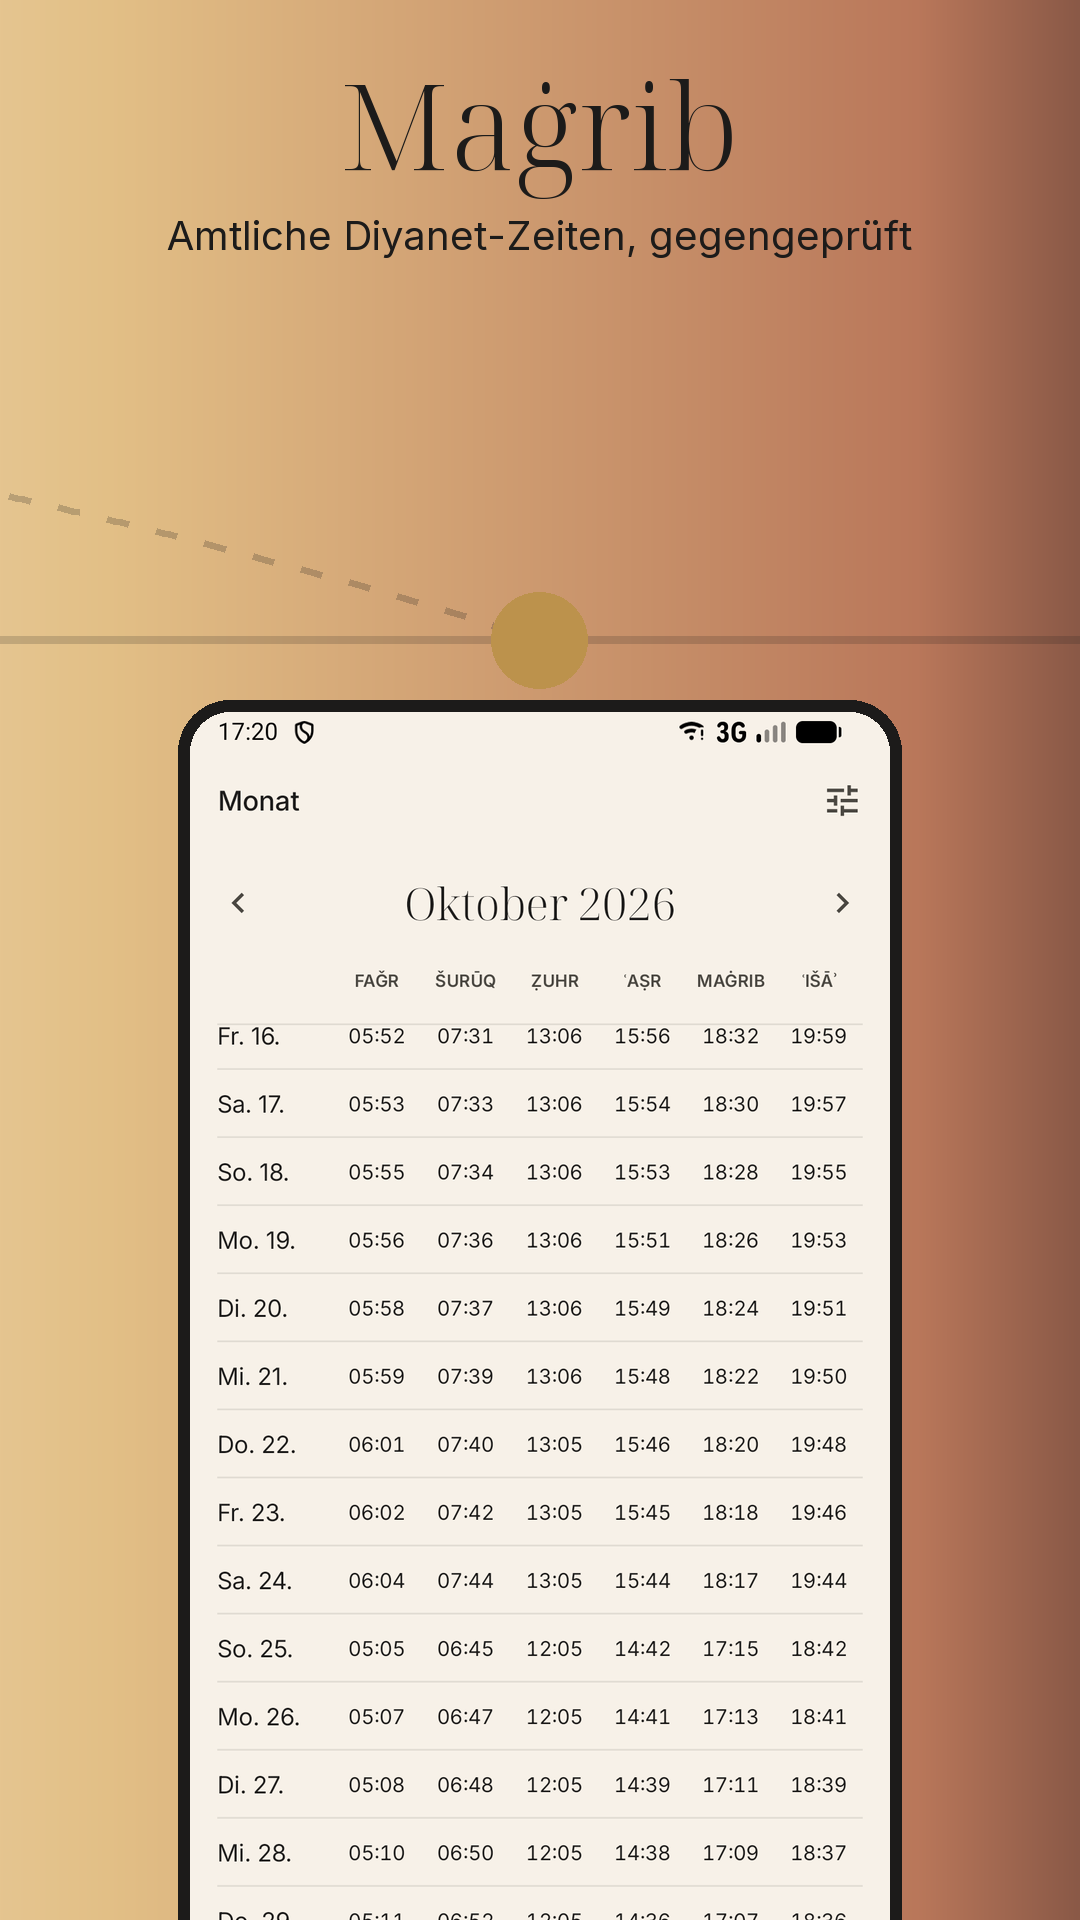
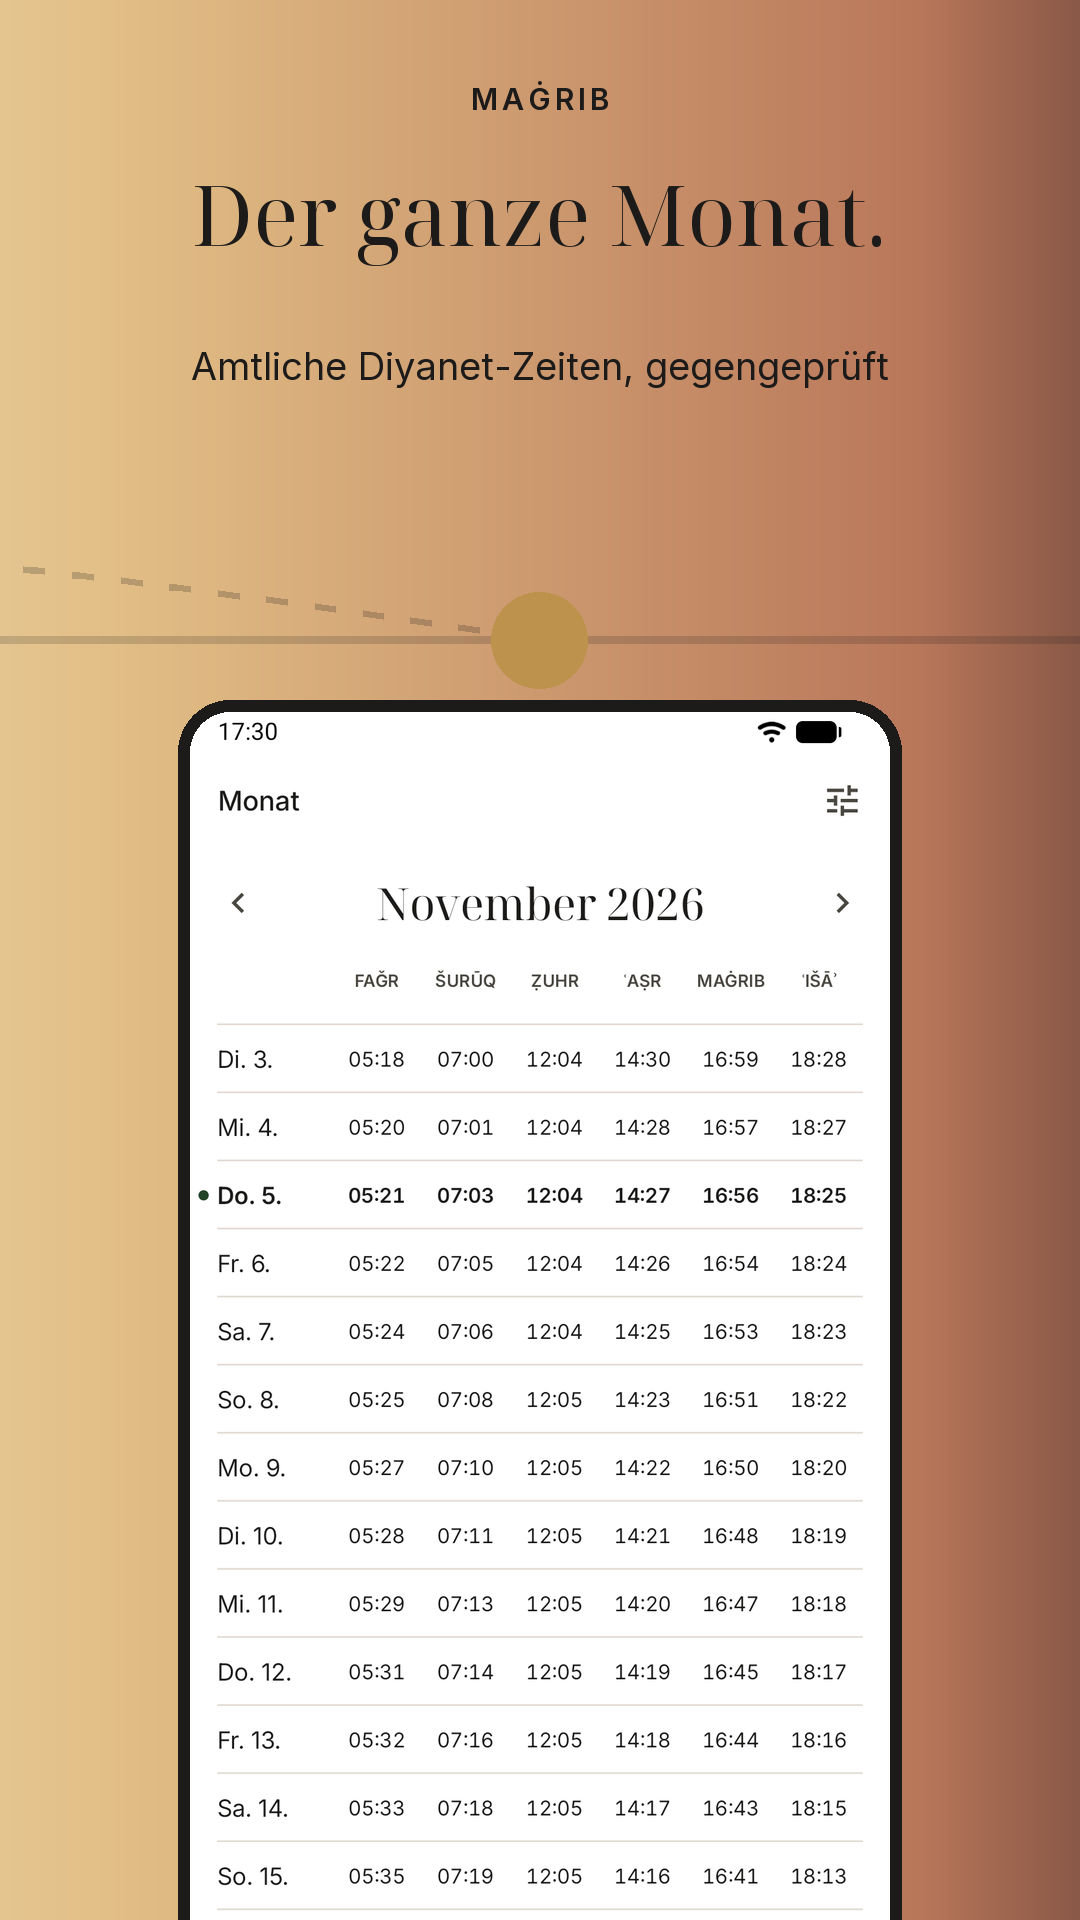
docs(store): neue Screenshot-Reihe im neuen Auftritt
Nach der Rückmeldung des Testers: groß eine Aussage zur Funktion, der
Gebetsname klein darüber, Serife Regular statt Light. Neue Aufnahmen mit
amtlichen Nürnberger Zeiten vom 05.11.2026 im aktuellen Design (Weiß,
neues „Heute“, „Verstehen“ mit Reitern). Sonnenbahn flacher und Sterne
unter der Textzone; Uhr-Einsatz vorerst entfernt (Aufnahme veraltet).

diff --git a/playstore/make_screenshots.py b/playstore/make_screenshots.py
@@ -47,21 +47,25 @@ ZIEL = REPO / "fastlane" / "metadata" / "android" / "de-DE" / "images"
 MAX_VERHAELTNIS = 2.0
 BREITE, HOEHE = 1080, 1920
 
-# (Rohdatei, Überschrift, Zeile). Reihenfolge = Tageslauf = Panorama von links.
+# (Rohdatei, Gebet klein darüber, Aussage groß, Zeile). Reihenfolge = Tageslauf =
+# Panorama von links. Seit 05.11.2026 (Rückmeldung des Testers) trägt die Aussage
+# zur Funktion die Überschrift, der Gebetsname steht klein darüber.
 SHOTS = [
-    ("01_fajr.png", "Faǧr", "Welches Gebet gerade gilt und wie lange noch"),
-    ("02_zuhr.png", "Ẓuhr", "Warum die Zeit dann beginnt"),
-    ("03_asr.png", "ʿAṣr", "Auf dem Startbildschirm und am Handgelenk"),
-    ("04_maghrib.png", "Maġrib", "Amtliche Diyanet-Zeiten, gegengeprüft"),
-    ("05_isha.png", "ʿIšāʾ", "Keine Werbung, kein Konto, akkusparend"),
+    ("01_fajr.png", "Faǧr", "Der Tag beginnt\nmit dem ersten Licht.", "Welches Gebet gilt und wie lange noch"),
+    ("02_zuhr.png", "Ẓuhr", "Jede Zeit erklärt.", "Beginn, Ende, Rakʿa und Quellen"),
+    ("03_asr.png", "ʿAṣr", "Immer im Blick.", "Widgets, Statusleiste und Uhr"),
+    ("04_maghrib.png", "Maġrib", "Der ganze Monat.", "Amtliche Diyanet-Zeiten, gegengeprüft"),
+    ("05_isha.png", "ʿIšāʾ", "Ruhig, auch\nin der Nacht.", "Reines Schwarz. Keine Werbung, kein Konto."),
 ]
-UHR_EINSATZ = "03_asr_uhr.png"
+# Kein Uhr-Einsatz mehr: die vorhandene Aufnahme stammt vom 30.10. und zeigte
+# andere Zeiten als das Telefon daneben. Wieder einsetzen mit neuer Aufnahme.
+UHR_EINSATZ = None
 NACHT = 4  # Index des letzten, dunklen Bildes
 
 # Zeile in Tinte statt Stein (#4A4741): vor Ocker und Ton reichte Stein nicht
 # fuer 4,5:1 (Bild 4, gemessen 2,4:1 am Zeilenende).
-HELL = {"titel": INK, "zeile": INK, "rahmen": (0x1C, 0x1B, 0x1A)}
-DUNKEL = {"titel": (0xF7, 0xF1, 0xE8), "zeile": (0xD8, 0xD2, 0xC8), "rahmen": (0x2A, 0x2A, 0x2D)}
+HELL = {"titel": INK, "zeile": INK, "kopf": INK, "rahmen": (0x1C, 0x1B, 0x1A)}
+DUNKEL = {"titel": (0xF7, 0xF1, 0xE8), "zeile": (0xD8, 0xD2, 0xC8), "kopf": (0xD8, 0xD2, 0xC8), "rahmen": (0x2A, 0x2A, 0x2D)}
 
 # Telefon schmal und tief genug, dass die Sonnenbahn im Streifen darueber
 # sichtbar bleibt; die oberen gut drei Viertel des Bildschirms bleiben zu sehen.
@@ -69,14 +73,30 @@ TELEFON_BREITE = 700
 RAHMEN = 12
 TELEFON_OBEN = 700
 ECKE = 40
-# Horizont und flache Sonnenbahn zwischen Zeile (y = 250) und Telefon (y = 700).
-TITEL_Y, ZEILE_Y = 170, 250
+# Kopf (Gebet), Aussage (bis zwei Zeilen) und Zeile über dem Horizont; die
+# flache Sonnenbahn läuft darunter bis zum Telefon (y = 700).
+KOPF_Y, TITEL_Y, ZEILE_Y = 110, 200, 380
+TITEL_PX, TITEL_ABSTAND, ZEILE_PX, KOPF_PX = 84, 92, 38, 30
 HORIZONT = 640 / HOEHE
-BAHN = 0.357
+# Flacher als bis 05.11.2026 (0,357): die Textzone reicht jetzt tiefer, die Sonne
+# im Scheitel soll darunter bleiben statt hinter der Zeile zu stehen.
+BAHN = 0.18
 
 
 STRICHE = (chr(0x2014), chr(0x2013))
-SCHRIFTDATEI = {"serif": "serif_light.ttf", "sans": "sans_regular.ttf"}
+SCHRIFTDATEI = {"serif": "serif_regular.ttf", "sans": "sans_regular.ttf", "kopf": "sans_semibold.ttf"}
+
+
+def zeilen(index: int) -> list:
+    """(Text, Schrift, Grundlinie, Farbschlüssel) aller Textzeilen eines Bildes."""
+    _, kopf, titel, zeile = SHOTS[index]
+    teile = titel.split("\n")
+    # Einzeilige Aussage etwas tiefer, damit der Abstand zur Zeile gleich wirkt.
+    oben = TITEL_Y + (TITEL_ABSTAND // 2 if len(teile) == 1 else 0)
+    out = [(kopf.upper(), font("kopf", KOPF_PX), KOPF_Y, "kopf")]
+    out += [(t, font("serif", TITEL_PX), oben + i * TITEL_ABSTAND, "titel") for i, t in enumerate(teile)]
+    out.append((zeile, font("sans", ZEILE_PX), ZEILE_Y, "zeile"))
+    return out
 
 
 def fehlende_zeichen(text: str, role: str) -> set:
@@ -107,9 +127,8 @@ def pruefe_kontrast(index: int, panel: Image.Image) -> None:
     """Ueberschrift und Zeile gegen den Himmel dahinter, ueber ihre ganze Breite."""
     farben = DUNKEL if index == NACHT else HELL
     d = ImageDraw.Draw(panel)
-    _, titel, zeile = SHOTS[index]
-    for text, schrift, y, farbe in ((titel, font("serif", 120), TITEL_Y, farben["titel"]),
-                                    (zeile, font("sans", 40), ZEILE_Y, farben["zeile"])):
+    for text, schrift, y, rolle in zeilen(index):
+        farbe = farben[rolle]
         x0, y0, x1, y1 = d.textbbox((BREITE / 2, y), text, font=schrift, anchor="ms")
         for x in range(int(x0), int(x1), 6):
             for yy in (int(y0) + 2, int((y0 + y1) / 2), int(y1) - 2):
@@ -124,11 +143,12 @@ def pruefe_texte() -> None:
     # keiner der beiden Schriften. Ein Bild-Vergleich (getmask) taugt dafuer
     # nicht, weil Pillow fuer fehlende Zeichen ein Ersatzkaestchen malt.
     assert fehlende_zeichen(chr(0x0635), "serif") == {chr(0x0635)}, "Glyphenpruefung erkennt nichts"
-    for _, titel, zeile in SHOTS:
-        for text in (titel, zeile):
+    for _, kopf, titel, zeile in SHOTS:
+        for text in (kopf, titel, zeile):
             assert not any(s in text for s in STRICHE), f"Strich in „{text}“"
-        assert not fehlende_zeichen(titel, "serif"), f"Serife: {fehlende_zeichen(titel, 'serif')}"
+        assert not fehlende_zeichen(titel.replace("\n", " "), "serif"), f"Serife: {fehlende_zeichen(titel, 'serif')}"
         assert not fehlende_zeichen(zeile, "sans"), f"Grotesk: {fehlende_zeichen(zeile, 'sans')}"
+        assert not fehlende_zeichen(kopf.upper(), "kopf"), f"Kopf: {fehlende_zeichen(kopf.upper(), 'kopf')}"
 
 
 
@@ -140,15 +160,22 @@ def _rund(im: Image.Image, radius: int) -> Image.Image:
     return out
 
 
-def compose(raw: Image.Image, panel: Image.Image, title: str, line: str,
+def compose(raw: Image.Image, panel: Image.Image, index: int,
             inset: Image.Image | None = None, dunkel: bool = False) -> Image.Image:
-    """Ein Screenshot 1080 x 1920: Himmel, Überschrift, Zeile, Aufnahme im Rahmen."""
+    """Ein Screenshot 1080 x 1920: Himmel, Gebet, Aussage, Zeile, Aufnahme im Rahmen."""
     farben = DUNKEL if dunkel else HELL
     im = panel.convert("RGBA")
     d = ImageDraw.Draw(im)
-    serif, sans = font("serif", 120), font("sans", 40)
-    d.text((BREITE / 2, TITEL_Y), title, font=serif, fill=farben["titel"], anchor="ms")
-    d.text((BREITE / 2, ZEILE_Y), line, font=sans, fill=farben["zeile"], anchor="ms")
+    for text, schrift, y, rolle in zeilen(index):
+        # Der Gebetsname leicht gesperrt, wie die kleinen Köpfe in der App.
+        if rolle == "kopf":
+            breite = sum(d.textlength(c, font=schrift) for c in text) + 4 * (len(text) - 1)
+            x = BREITE / 2 - breite / 2
+            for c in text:
+                d.text((x, y), c, font=schrift, fill=farben[rolle], anchor="ls")
+                x += d.textlength(c, font=schrift) + 4
+        else:
+            d.text((BREITE / 2, y), text, font=schrift, fill=farben[rolle], anchor="ms")
 
     h = round(raw.size[1] * TELEFON_BREITE / raw.size[0])
     bild = raw.convert("RGB").resize((TELEFON_BREITE, h), Image.LANCZOS)
@@ -174,15 +201,15 @@ def compose(raw: Image.Image, panel: Image.Image, title: str, line: str,
 
 def telefon() -> list:
     quelle = ROH / "phoneScreenshots"
-    fehlend = [n for n, _, _ in SHOTS if not (quelle / n).is_file()]
+    fehlend = [n for n, _, _, _ in SHOTS if not (quelle / n).is_file()]
     assert not fehlend, f"Roh-Aufnahmen fehlen: {fehlend}"
     pano = render_panorama(BREITE * len(SHOTS), HOEHE, horizon=HORIZONT, bahn=BAHN)
     bilder = []
-    for i, (name, titel, zeile) in enumerate(SHOTS):
+    for i, (name, _, _, _) in enumerate(SHOTS):
         panel = pano.crop((i * BREITE, 0, (i + 1) * BREITE, HOEHE))
         pruefe_kontrast(i, panel)
-        einsatz = Image.open(quelle / UHR_EINSATZ) if name == "03_asr.png" else None
-        bild = compose(Image.open(quelle / name), panel, titel, zeile, einsatz, dunkel=(i == NACHT))
+        einsatz = Image.open(quelle / UHR_EINSATZ) if UHR_EINSATZ and name == "03_asr.png" else None
+        bild = compose(Image.open(quelle / name), panel, i, einsatz, dunkel=(i == NACHT))
         assert bild.size == (BREITE, HOEHE)
         assert bild.size[1] / bild.size[0] <= MAX_VERHAELTNIS, f"{name}: zu hoch für Play"
         bilder.append((name, bild))

diff --git a/playstore/panorama.py b/playstore/panorama.py
@@ -42,7 +42,9 @@ SONNEN = [  # (t auf der Bahn, Farbe, Radius in Anteilen der Hoehe)
 ]
 # Sterne unterhalb der Ueberschrift-Zone (die Zeile im fuenften Screenshot
 # endet bei etwa 0,14 der Hoehe), sonst sitzt einer mitten im Text.
-STERNE = [(0.85, 0.20, 1.6), (0.93, 0.26, 1.2), (0.965, 0.18, 1.4), (0.89, 0.31, 1.0), (0.985, 0.29, 1.1)]
+# Seit 05.11.2026 ist die Textzone hoeher (Gebet, zweizeilige Aussage, Zeile bis etwa
+# 0,21 der Hoehe); die Sterne stehen darunter, aber noch ueber dem Horizont (0,33).
+STERNE = [(0.85, 0.25, 1.6), (0.93, 0.29, 1.2), (0.965, 0.235, 1.4), (0.89, 0.315, 1.0), (0.985, 0.27, 1.1)]
 
 
 def _hex(h: str) -> tuple:
@@ -117,7 +119,8 @@ def render_panorama(width: int, height: int, horizon: float = 0.736, sun: bool =
 
 def font(role: str, px: int) -> ImageFont.FreeTypeFont:
     """Die gebuendelten Schriften der App: Serife fuer Ueberschriften, Grotesk fuer Zeilen."""
-    datei = {"serif": "serif_light.ttf", "sans": "sans_regular.ttf"}[role]
+    # Serife Regular statt Light (05.11.2026: Light war im Store zu dünn), Kopfzeile Semibold.
+    datei = {"serif": "serif_regular.ttf", "sans": "sans_regular.ttf", "kopf": "sans_semibold.ttf"}[role]
     return ImageFont.truetype(str(FONTS / datei), px)
 
 
